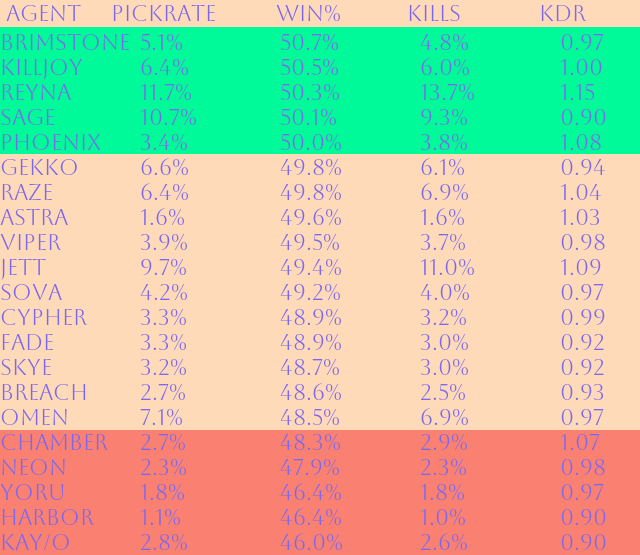
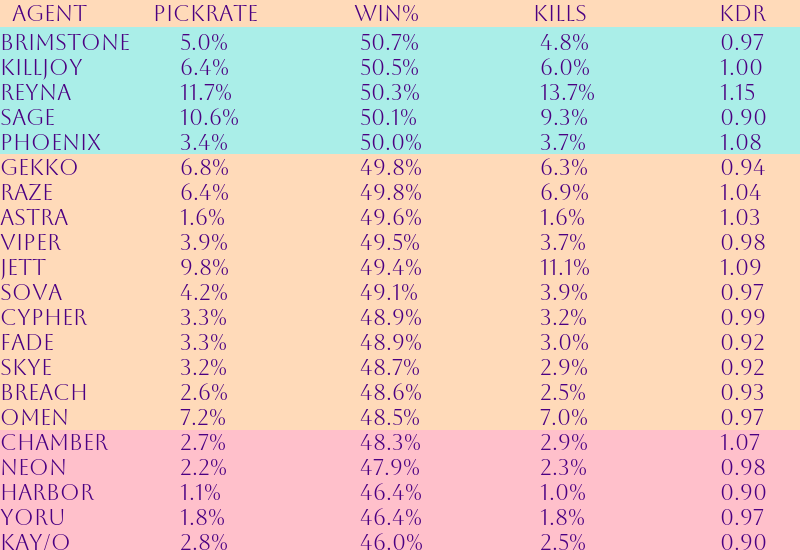
новый метод для вывода канртинок,только для фулл тимы

diff --git a/ideal_pick_pic.py b/ideal_pick_pic.py
@@ -1,0 +1,67 @@
+from PIL import Image
+import requests
+from io import BytesIO
+from perfectpickchoice import mappick as pick
+
+
+def pick_pic(map_name):
+    smokers = ['astra', 'brimstone', 'harbor', 'omen', 'viper']
+    flashes = ['breach', 'fade', 'gekko', 'kayo', 'skye', 'sova']
+    defenders = ['chamber', 'cypher', 'killjoy', 'sage']
+    duelists = ['jett', 'neon', 'phoenix', 'raze', 'reyna', 'yoru']
+    pick_dict = {smokers[
+                     0]: 'https://static.wikia.nocookie.net/valorant/images/0/08/Astra_icon.png/revision/latest?cb=20210302164234',
+                 smokers[
+                     1]: 'https://static.wikia.nocookie.net/valorant/images/4/4d/Brimstone_icon.png/revision/latest?cb=20201128234311',
+                 smokers[
+                     2]: 'https://static.wikia.nocookie.net/valorant/images/f/f3/Harbor_icon.png/revision/latest?cb=20221018133629',
+                 smokers[
+                     3]: 'https://static.wikia.nocookie.net/valorant/images/b/b0/Omen_icon.png/revision/latest?cb=20201128234318',
+                 smokers[
+                     4]: 'https://static.wikia.nocookie.net/valorant/images/5/5f/Viper_icon.png/revision/latest?cb=20201128234408',
+                 flashes[
+                     0]: 'https://static.wikia.nocookie.net/valorant/images/5/53/Breach_icon.png/revision/latest?cb=20201128234328',
+                 flashes[
+                     1]: 'https://static.wikia.nocookie.net/valorant/images/a/a6/Fade_icon.png/revision/latest?cb=20220525095157',
+                 flashes[
+                     2]: 'https://static.wikia.nocookie.net/valorant/images/6/66/Gekko_icon.png/revision/latest?cb=20230307165000',
+                 flashes[
+                     3]: 'https://static.wikia.nocookie.net/valorant/images/f/f0/KAYO_icon.png/revision/latest?cb=20210622225019',
+                 flashes[
+                     4]: 'https://static.wikia.nocookie.net/valorant/images/3/33/Skye_icon.png/revision/latest?cb=20201128234628',
+                 flashes[
+                     5]: 'https://static.wikia.nocookie.net/valorant/images/4/49/Sova_icon.png/revision/latest?cb=20201128234221',
+                 defenders[
+                     0]: 'https://static.wikia.nocookie.net/valorant/images/0/09/Chamber_icon.png/revision/latest?cb=20211113013323',
+                 defenders[
+                     1]: 'https://static.wikia.nocookie.net/valorant/images/8/88/Cypher_icon.png/revision/latest?cb=20201128234211',
+                 defenders[
+                     2]: 'https://static.wikia.nocookie.net/valorant/images/1/15/Killjoy_icon.png/revision/latest?cb=20200805002141',
+                 defenders[
+                     3]: 'https://static.wikia.nocookie.net/valorant/images/7/74/Sage_icon.png/revision/latest?cb=20201128234057',
+                 duelists[
+                     0]: 'https://static.wikia.nocookie.net/valorant/images/3/35/Jett_icon.png/revision/latest?cb=20201128234156',
+                 duelists[
+                     1]: 'https://static.wikia.nocookie.net/valorant/images/d/d0/Neon_icon.png/revision/latest?cb=20220111220652',
+                 duelists[
+                     2]: 'https://static.wikia.nocookie.net/valorant/images/1/14/Phoenix_icon.png/revision/latest?cb=20201128234131',
+                 duelists[
+                     3]: 'https://static.wikia.nocookie.net/valorant/images/9/9c/Raze_icon.png/revision/latest?cb=20201128234400',
+                 duelists[
+                     4]: 'https://static.wikia.nocookie.net/valorant/images/b/b0/Reyna_icon.png/revision/latest?cb=20200607180311',
+                 duelists[
+                     5]: 'https://static.wikia.nocookie.net/valorant/images/d/d4/Yoru_icon.png/revision/latest?cb=20210112211830'}
+    holst = Image.new('RGB', (1270, 256), color='#ffffff')
+    karta = pick(map_name)
+    x = 0
+    for agent in karta:
+        if agent not in ['chamber', 'gekko', 'harbor', 'sage', 'jett']:
+            holst.paste(Image.open(BytesIO(requests.get(pick_dict[agent]).content)), (x, 0))
+        elif agent in ['chamber', 'gekko', 'harbor']:
+            holst.paste(Image.open(BytesIO(requests.get(pick_dict[agent]).content)).resize((256, 256)), (x, 0))
+        elif agent == 'sage':
+            holst.paste(Image.open(BytesIO(requests.get(pick_dict[agent]).content)).resize((264, 256)), (x, 0))
+        elif agent == 'jett':
+            holst.paste(Image.open(BytesIO(requests.get(pick_dict[agent]).content)).resize((264, 260)), (x, 0))
+        x += 255
+    holst.save('C:/Users/Alexey/PycharmProjects/valobottelega/perfectpick.png')

diff --git a/perfectpickchoice.py b/perfectpickchoice.py
@@ -7,21 +7,19 @@ def mappick(name):
     # agents = ['Astra', 'Breach', 'Brimstone', 'Chamber', 'Cypher', 'Fade', 'Gekko', 'Harbor',
     #          'Jett', 'KAY/O', 'Killjoy', 'Neon', 'Omen', 'Phoenix', 'Raze', 'Reyna', 'Sage',
     #          'Skye', 'Sova', 'Viper', 'Yoru']
-    smokers = ['Astra', 'Brimstone', 'Harbor', 'Omen', 'Viper']  # список всех агентов по классам
-    flashes = ['Breach', 'Fade', 'Gekko', 'KAY/O', 'Skye', 'Sova']
-    defenders = ['Chamber', 'Cypher', 'Killjoy', 'Sage']
-    duelists = ['Jett', 'Neon', 'Phoenix', 'Raze', 'Reyna', 'Yoru']
+    smokers = ['astra', 'brimstone', 'harbor', 'omen', 'viper']  # список всех агентов по классам
+    flashes = ['breach', 'fade', 'gekko', 'kayo', 'skye', 'sova']
+    defenders = ['chamber', 'cypher', 'killjoy', 'sage']
+    duelists = ['jett', 'neon', 'phoenix', 'raze', 'reyna', 'yoru']
     # составление идельных пиков для каждой из карт в игре
     perfectpick = {maps[0]: [smokers[0], flashes[3], defenders[3], duelists[1], duelists[2]],
                    maps[1]: [smokers[1], flashes[0], defenders[3], duelists[3], duelists[2]],
                    maps[2]: [smokers[0], random.choice(flashes), defenders[3], duelists[0], duelists[4]],
                    maps[3]: [smokers[0], flashes[2], defenders[2], duelists[5], duelists[random.randint(0, 3)]],
-                   maps[4]: [smokers[1], 'KAY/O or Breach', defenders[random.randint(1, 2)], duelists[1], duelists[
+                   maps[4]: [smokers[1], flashes[0], defenders[random.randint(1, 2)], duelists[1], duelists[
                        2]],
-                   maps[5]: ['Brimstone or Omen', flashes[random.randint(4, 5)], defenders[2], duelists[0], duelists[
+                   maps[5]: [smokers[3], flashes[random.randint(4, 5)], defenders[2], duelists[0], duelists[
                        2]],
-                   maps[6]: [smokers[4], 'KAY/O or Sova', defenders[3], duelists[0], duelists[1]]}
+                   maps[6]: [smokers[4], flashes[3], defenders[3], duelists[0], duelists[1]]}
     if map1 in maps:
-        return '\n'.join(perfectpick[map1])
-    else:
-        return 'Неверное название карты,пишите оригинальное название карты по-английски'
+        return perfectpick[map1]

diff --git a/trackerpic.py b/trackerpic.py
@@ -8,26 +8,26 @@ def trackerparse():
     request = requests.get(url)
     soup = bs(request.text, 'html.parser')
     agents = soup.find_all('div', class_='value')
-    im = Image.new('RGB', (640, 555), color=('#FFDAB9'))
+    im = Image.new('RGB', (800, 555), color=('#FFDAB9'))
     draw_text = ImageDraw.Draw(im)
-    draw_text.rectangle((0, 27, 640, 153), fill='#00FA9A')
-    draw_text.rectangle((0, 430, 640, 555), fill='#FA8072')
+    draw_text.rectangle((0, 27, 800, 153), fill='#aaeee8')
+    draw_text.rectangle((0, 430, 800, 555), fill='#ffc0cb')
     font = ImageFont.truetype('C:/Users/Alexey/Desktop/Aboreto-Regular.ttf', size=22)
     draw_text.text(
         (0, 0),
-        ' Agent     PickRate          Win%           Kills             KDR',
+        '  Agent           PickRate                Win%                   Kills                      KDR',
         font=font,
-        fill=('#7B68EE')
+        fill=('#4B0082')
     )
     for i in range(0, 525, 25):
         formatted = [agents[i // 5].text.ljust(9), agents[i // 5 + 1].text.ljust(8), agents[i // 5 + 2].text.ljust(6),
                      agents[i // 5 + 3].text.ljust(6), agents[i // 5 + 4].text]
         for j in range(0, 5):
             draw_text.text(
-                (j * 140, i + 50),
+                (j * 180, i + 50),
                 font=font,
                 text=formatted[j],
                 anchor='ls',
-                fill=('#7B68EE')
+                fill=('#4B0082')
             )
     im.save('C:/Users/Alexey/PycharmProjects/valobottelega/image.png')

diff --git a/mainbots.py b/mainbots.py
@@ -3,7 +3,7 @@ import time
 
 import telebot
 from telebot import types
-from perfectpickchoice import mappick as pick
+from ideal_pick_pic import pick_pic
 from solopickbyclass import solopick as solo
 from solopickbyclass import klassi as k
 from solopickbyclass import maps as m
@@ -48,7 +48,9 @@ def perfmap(message):
             (message.text.split(' на ')[0].lower() in k and message.text.split(' на ')[1].lower() in m):
         bot.send_message(message.chat.id, solo(message.text))
     elif message.text.lower() in ['pearl', 'split', 'haven', 'lotus', 'fracture', 'ascent', 'icebox']:
-        bot.send_message(message.chat.id, pick(message.text))
+        pick_pic(message.text)
+        pick_photo = open('C:/Users/Alexey/PycharmProjects/valobottelega/perfectpick.png', 'rb')
+        bot.send_photo(message.chat.id, pick_photo)
 
 
 bot.infinity_polling()

diff --git a/solopickbyclass.py b/solopickbyclass.py
@@ -1,5 +1,6 @@
 import random
 
+
 maps = ['pearl', 'split', 'haven', 'lotus', 'fracture', 'ascent', 'icebox']
 klassi = ['смоки', 'флешки', 'защитник', 'дуэлянт']
 
